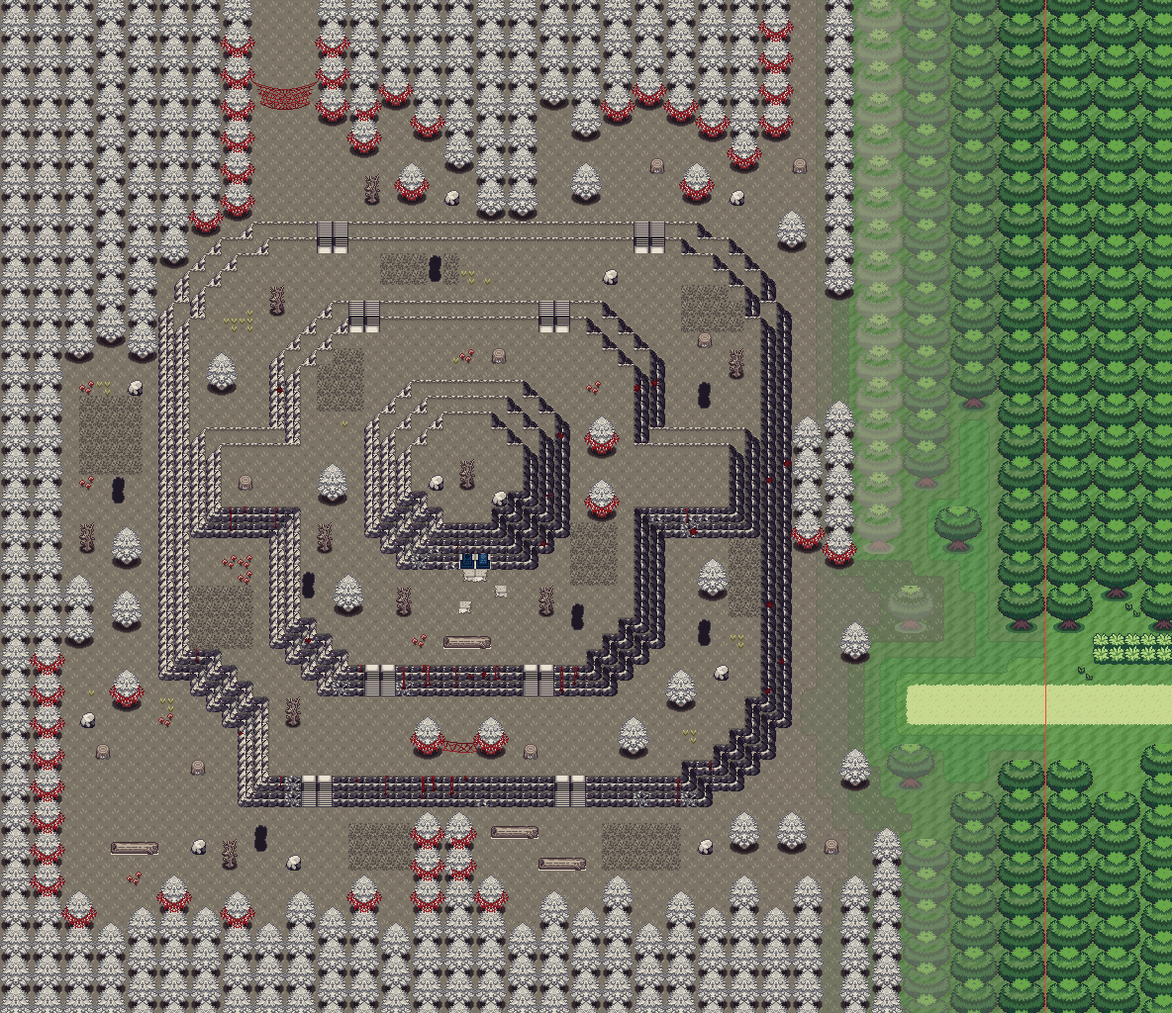
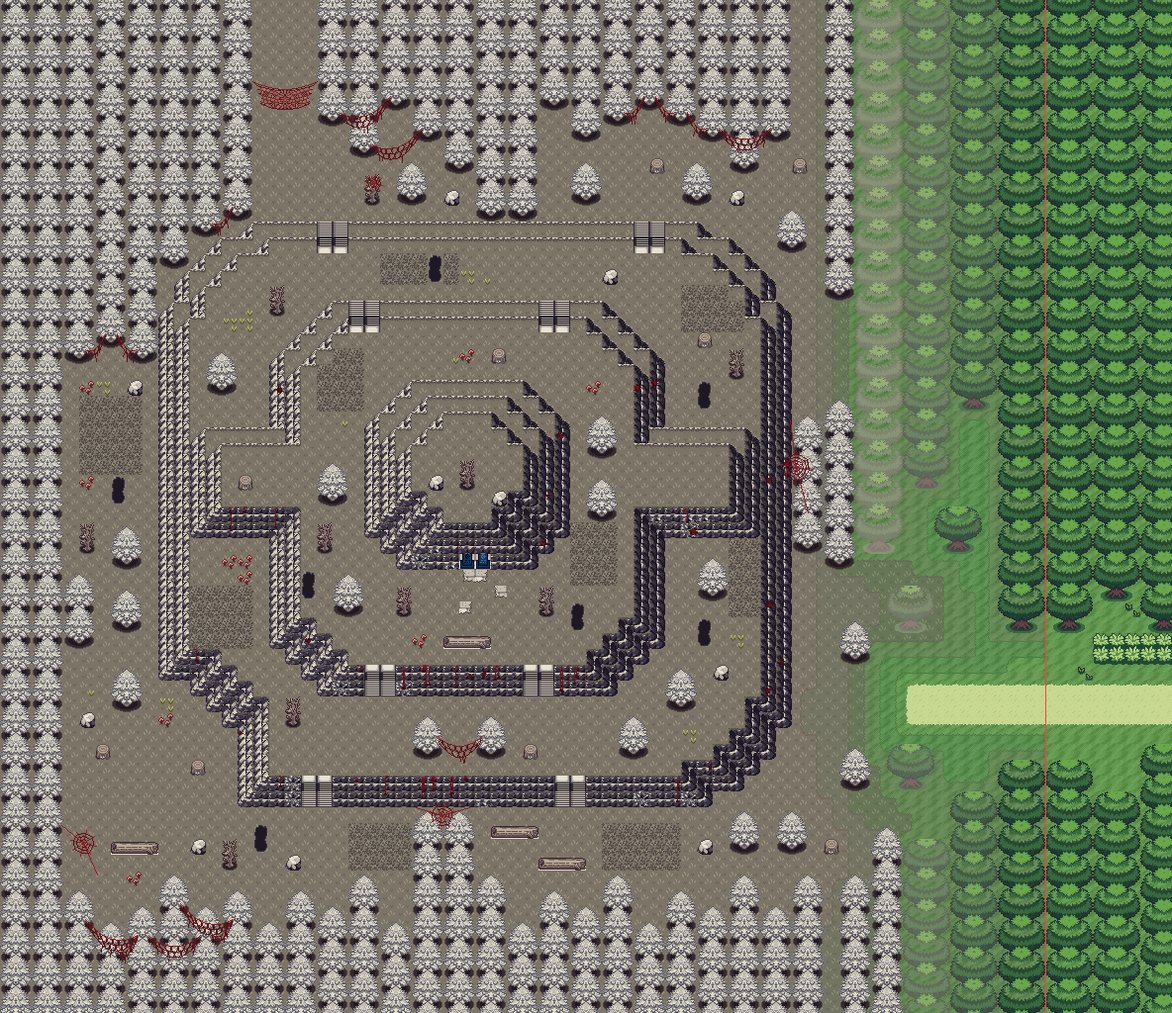
Hollow Hill mock v7: webs hung across the trees, not on each one
Per the user: sheets of web sag from tree to tree along the woods' edges (garlands),
the net across the way north, a sheet between the pair of pines on ring 1, round orb
webs in the dead tree, the clearing's corner and where the woods meet the cliffs.

Claude-Session: https://claude.ai/code/session_01FHXnfqnedTHLf5QFbB3MCU

diff --git a/tools/art/hollowhill/hh_mock.py b/tools/art/hollowhill/hh_mock.py
@@ -581,47 +581,92 @@ def web(name):
     im[im[..., 3] == 0] = 0
     return im
 
-# the webbed patches (cells x0, y0, x1, y1): a pine is webbed when its crown's widest row lies inside one
-WEBBED = [(12, 0, 28, 13),            # round the way north, and the woods' edge above the dead tree (user)
-          (24, 44, 33, 48),           # the pair of pines on ring 1's south terrace (user)
-          (0, 41, 17, 63),            # round the clearing
-          (47, 23, 54, 37),           # the trees closing the way east
-          (23, 50, 31, 63),           # the trees closing the way south
-          (38, 0, 51, 12),            # the north-east woods
-          (34, 23, 41, 33)]           # a clump on ring 2
+# Hung across the trees (user 2026-11-20: a web on each tree looked strange; hang them across more of the trees,
+# more naturally): sheets of web sag from tree to tree along the woods' edges, a few threads deep with MonoMyth's
+# zig-zag lace between them and torn threads trailing from their lower edge; the big net closes the narrow way north;
+# round orb webs, some torn, in the corners where the woods meet the cliffs. Drawn a pixel at a time in the webbing's
+# two colours (MonoMyth's, made old-blood red), so they read as the same webbing.
+WEB_LIGHT, WEB_DARK = (146, 30, 36), (92, 16, 24)
 NETS = [(16, 4, 5)]                   # (gap's first cell x, width, tree row): the big net across the way north
 
-def hang_webs(M, img):
-    out = Image.fromarray(img).convert('RGBA')
-    put = lambda name, px, py: out.alpha_composite(Image.fromarray(web(name)), (int(px), int(py)))
-    def open_(x, y): return 0 <= x < W and 0 <= y < H and (M.used[y, x] in (None, 'road') or str(M.used[y, x]).startswith('soft'))
-    # of the woods, only the trees on their edge (facing open ground: the ones the player sees close by)
-    trees = {(x, y) for x, y in M.units if M.used[y + 1, x] == 'woods' and
-             (any(open_(x + dx, y + dy) for dx in (-1, 2) for dy in (1, 2)) or open_(x, y + 3) or open_(x + 1, y + 3))}
-    alone = {tuple(map(int, u[len('tree:pine'):].split(','))) for u in M.used.ravel()
-             if isinstance(u, str) and u.startswith('tree:pine')}
-    trees |= alone
-    webbed = sorted((x, y) for x, y in trees
-                    if any(a <= x + 1 <= c and b <= y + 1 <= d for a, b, c, d in WEBBED))
-    at = set(webbed)
-    for x, y in webbed:
-        px, py = x * 16, (y + 1) * 16                       # the crown's widest row and the row under it
-        put('webtree_drape', px + 8, py)
-        if (x - 2, y) not in at: put('webtree_fan_l', px - 6, py)
-        if (x + 2, y) in at: put('webtree_fan_r', px + 22, py)       # the fan both trees share
-        else: put('webtree_fan_r', px + 22, py)
-        # a strand across an open gap to the next webbed tree in the row (1-4 cells of open ground)
-        for g in range(1, 5):
-            if (x, y) in alone and (x + 2 + g, y) in alone and (x + 2 + g, y) in at and all(M.used[y + 1, x + 2 + k] in (None, 'road') or str(M.used[y + 1, x + 2 + k]).startswith('soft')
-                                             for k in range(g)):
-                s = web('webtree_strand'); mid = s[:, 16:64]
-                span = g * 16 + 4
-                body = np.concatenate([mid] * 3, 1)[:, :span]
-                put_arr = Image.fromarray(body); out.alpha_composite(put_arr, ((x + 2) * 16 - 2, py))
-                break
+def _line(layer, a, b, c):
+    (x0, y0), (x1, y1) = (int(round(a[0])), int(round(a[1]))), (int(round(b[0])), int(round(b[1])))
+    dx, dy = abs(x1 - x0), -abs(y1 - y0); sx, sy = (1 if x0 < x1 else -1), (1 if y0 < y1 else -1); err = dx + dy
+    while True:
+        if 0 <= y0 < layer.shape[0] and 0 <= x0 < layer.shape[1]: layer[y0, x0] = (*c, 255)
+        if x0 == x1 and y0 == y1: break
+        e2 = 2 * err
+        if e2 >= dy: err += dy; x0 += sx
+        if e2 <= dx: err += dx; y0 += sy
+
+def sheet(layer, A, B, rng, depth=3, sag=None):
+    """Threads sagging from A to B (pixels), one under another, laced by zig-zags; torn ends trailing below."""
+    L = ((B[0] - A[0]) ** 2 + (B[1] - A[1]) ** 2) ** 0.5
+    sag = sag if sag is not None else 3 + L * 0.16
+    n = max(4, int(L / 3))
+    rows = []
+    for i in range(depth):
+        a = (A[0], A[1] + i * 2); b = (B[0], B[1] + i * 2); sg = sag + i * 3.5
+        pts = [(a[0] + (b[0] - a[0]) * t, a[1] + (b[1] - a[1]) * t + sg * 4 * t * (1 - t)) for t in np.linspace(0, 1, n + 1)]
+        rows.append(pts)
+        for p, q in zip(pts, pts[1:]): _line(layer, p, q, WEB_LIGHT if i == 0 else WEB_DARK)
+    for i in range(depth - 1):                                   # the lace: zig-zags between one thread and the next
+        for k in range(1, n):
+            j = k + (1 if (k + i) % 2 else -1)
+            if 0 < j < n: _line(layer, rows[i][k], rows[i + 1][j], WEB_DARK)
+    for k in rng.choice(np.arange(2, n - 1), size=min(3, max(0, n - 3)), replace=False) if n > 4 else []:
+        x, y = rows[-1][k]; _line(layer, (x, y), (x + rng.integers(-1, 2), y + rng.integers(3, 8)), WEB_DARK)
+
+def orb(layer, C, R, anchors, rng, torn=0.25):
+    """A round web: spokes to its anchors and out, a spiral, broken in places."""
+    spokes = [np.arctan2(ay - C[1], ax - C[0]) for ax, ay in anchors] + list(np.linspace(0, 2 * np.pi, 9)[:-1] + 0.2)
+    for ax, ay in anchors: _line(layer, C, (ax, ay), WEB_LIGHT)
+    for t in spokes: _line(layer, C, (C[0] + R * np.cos(t), C[1] + R * np.sin(t)), WEB_LIGHT)
+    ang = sorted(t % (2 * np.pi) for t in spokes)
+    for r in np.arange(4, R, 3.2):
+        for t0, t1 in zip(ang, ang[1:] + [ang[0] + 2 * np.pi]):
+            if rng.random() < torn: continue
+            _line(layer, (C[0] + r * np.cos(t0), C[1] + r * np.sin(t0)), (C[0] + r * np.cos(t1), C[1] + r * np.sin(t1)), WEB_DARK)
+
+def hang_webs(M, img, seed=4):
+    rng = np.random.default_rng(seed)
+    layer = np.zeros(img.shape[:2] + (4,), np.uint8)
+    units = set(M.units)
+    def north(x0):                        # the lowest pine of a woods column hanging from the top
+        return max(t for x, t in units if x == x0 and t < 30)
+    def south(x0):                        # the highest pine of a column rising from the bottom
+        return min(t for x, t in units if x == x0 and t > 40)
+    def front(u):                         # where a web holds on: the front of a pine's crown, low down
+        x0, t = u; return (x0 * 16 + 16, (t + 2) * 16 + 1)
+    def garland(us):
+        """Along a woods' edge: each tree's crown to the next one's (up to two along) if they hang at about the
+        same height, the web sagging between; never one steeply above the other."""
+        pts = [front(u) for u in us]
+        for i, A in enumerate(pts):
+            for B in pts[i + 1:i + 3]:
+                if abs(B[1] - A[1]) <= 18 or (abs(B[1] - A[1]) <= 34 and B[0] - A[0] >= 60):
+                    sheet(layer, (A[0] + 6, A[1]), (B[0] - 6, B[1]), rng, depth=2 + (B[0] - A[0] > 40)); break
+    garland([(x, north(x)) for x in (4, 6, 8, 10, 12, 14)])               # the woods' edge west of the way north
+    garland([(x, north(x)) for x in (20, 22, 24, 26, 28)])                # and east of it, over the dead tree (user)
+    garland([(x, north(x)) for x in (38, 40, 42, 44, 46, 48)])            # the north-east woods
+    garland([(x, south(x)) for x in (4, 6, 8, 10, 12, 14)])               # the treeline south of the clearing
+    # a small round web in the dead tree's branches under the woods' edge (user)
+    orb(layer, (23 * 16 + 9, 11 * 16 + 9), 9, [(23 * 16 + 3, 11 * 16 + 2), (23 * 16 + 14, 11 * 16 + 4)], rng, torn=0.3)
+    # the clearing's corner, where the west woods meet the treeline south of it
+    orb(layer, (5 * 16 + 4, 53 * 16 + 4), 13, [(3 * 16 + 14, 52 * 16 + 2), (6 * 16 + 2, 55 * 16 + 4)], rng)
+    # the pair of pines on ring 1's south terrace (user): a deep sheet between them
+    sheet(layer, (26 * 16 + 26, 46 * 16 + 8), (30 * 16 + 6, 46 * 16 + 8), rng, depth=3)
+    # round webs where the woods close the ways against the cliffs: east and south
+    orb(layer, (50 * 16 + 4, 29 * 16 + 8), 16, [(50 * 16 - 2, 26 * 16 + 8), (51 * 16, 32 * 16 + 6)], rng)
+    orb(layer, (27 * 16 + 14, 51 * 16 + 8), 13, [(26 * 16 + 4, 51 * 16), (29 * 16 + 10, 51 * 16)], rng)
+    # a clump on ring 2: two pines and the stump between them
+    out = Image.fromarray(img).convert('RGBA'); out.alpha_composite(Image.fromarray(layer))
     for gx, w, row in NETS:
-        net = web('web_net')
-        out.alpha_composite(Image.fromarray(net), (gx * 16 + (w * 16 - net.shape[1]) // 2, row * 16 + 2))
+        net = Image.open(os.path.join(HERE, '..', '..', '..', 'assets', 'monomyth_reference', 'pieces', 'web_net.png')).convert('RGBA')
+        a = np.array(net); m = a[..., 3] > 0
+        light = (a[..., :3] == (240, 240, 248)).all(-1)
+        a[m & light, :3] = WEB_LIGHT; a[m & ~light, :3] = WEB_DARK
+        out.alpha_composite(Image.fromarray(a), (gx * 16 + (w * 16 - a.shape[1]) // 2, row * 16 + 2))
     return np.array(out.convert('RGB'))
 
 def main(outdir):

diff --git a/bible/20_chapter1_build.md b/bible/20_chapter1_build.md
@@ -180,7 +180,7 @@ Chapter 1 is the template: once its foundations (mechanics, maps, buildings, NPC
 - **Pelluca's five houses (user design 2026-11-19), installed (stage 1: the look).** The five "door is locked" houses open: `PellucaHouse1`-`5` behind (59,8), (54,23), (64,23), (54,30), (64,30) (Pelluca warps 5-9; the manor takes 10 when it opens). Crown's medieval cottage kit (group 4 #1; credit: Blah and the Crown team, with permission): stone walls with small windows, plank floor, beds, wardrobes, bookcases, tables and chairs, candelabras, coat stands, barrels (user: Crown cottages with MonoMyth pieces where they make sense). **H1** (the two-winged timber townhouse, larger, 19x11): bookcases and MonoMyth's tree-stump lodge table with its stools (user), Crown's upright organ on its rug (from the manor set), wardrobe, bed, table. **H2:** an iron cauldron against the back wall (Crown's alchemist's room, group 18 #1), bed, wardrobe, bookcase, table. **H3:** two beds, the table in the middle, barrels by the door. **H4:** bookcases, the alchemist's cluttered desk and potion shelf, bed, table. **H5:** the smallest: wardrobe, table, bed, barrels, coat stand. User: no hearths (each replaced by something no other house has), no round rugs, no single chairs standing mid-floor. One shared tileset pair (`pelluca_houses_tiles` / `pelluca_houses`, 208 tiles, 63 metatiles, 9 palettes, pixel-identical to the mocks), built by `tools/art/houses/` (`houses_mock.py`, `build_houses.py`). Verified in the emulator: into each house from its door, around it, out by the mat. *Stage 2:* who lives in each, NPCs, dialogue.
 - **The ice path and the church after the blast (user design 2026-11-19), built (stage 1 + the stage-3 puzzle, user: the two combined for this piece).** **The church after Eden's blast** is a second layout of the same hall map (`LAYOUT_PELLUCA_TEMPLAR_HALL_RUINED`), swapped in by the hall's on-transition script once **`FLAG_DR_CHURCH_BLASTED`** is set (the blast scene, stage 4): the split through the gold medallion with frost round it, the old fault's cracks in wall and carpet, the cracked stained glass (three in the great window, one across the girl's face; two in each lancet) and the cell doorway caved in under MonoMyth's Mt. Thunder rubble (`blast_mock.py`, approved); no long crack from the rubble to the split (tried, dropped, user: unnatural and not needed). Everything else plays as the intact hall: its collision, its exit, and its side tables' tops over the player, read from the intact layout. The four split cells drop the player (Mt. Pyre's fall-through-the-hole) onto the ice path's landing; the cell door is dead and the fallen stone in front of it solid. **The ice path** (`PellucaIcePath`, 16x24, `icepath_mock.py`, approved): the landing, the 12x9 thin-ice field (86 ice cells, 22 ice boulders, a unique route from the landing to the gate), the ice wall and its gate, and the shrine: the half-thawed Arceus statue between the fossilised log benches, fire rings and blue flowers, and the three stone tusk arches like a ribcage before it. **The puzzle** runs on vanilla's Sootopolis-gym step callback (`STEP_CB_SOOTOPOLIS_ICE`, `VAR_ICE_STEP_COUNT`), which `src/field_tasks.c` now points at this map's own cracked/broken metatiles on this layout (`METATILE_PellucaIcePath_*`, written by the build into `metatile_labels.h`; the Sootopolis row-var bookkeeping kept to the gym). All 86 cracked (count 87): the gate's ice gives way (`SE_ICE_STAIRS`), the field refreezes solid (special `DrIcePathFreeze`: safe ice, no behaviour) and **`FLAG_DR_ICE_PATH_SOLVED`** is set; a second step on a cracked cell: the ice breaks, the player drops through, black screen, back on the landing with a fresh field. Every full load of the map rebuilds a fresh field and count when unsolved (special `DrIcePathReset`; a continued save would otherwise restore cracked cells in view), and the solved state (gate open, refrozen field) when solved. **Ways out:** the ladder in the shrine's corner, and (added in the build, so the player is never stuck before solving) **the Templars' rope** hanging beside the landing; both bring the player up just south of the split (hall warp 2). The ribs stand free: only each leg's foot is solid, the rest of each rib is drawn over the player, so he walks under and between them. Map type underground. Flags: `FLAG_DR_CHURCH_BLASTED` = 0x901, `FLAG_DR_ICE_PATH_SOLVED` = 0x902. Built by `tools/art/icepath/build_icepath.py` and `tools/art/templar/build_ruined.py` (with `imgtiles.py`; `tools/art/academy/tilefit.py` merges the statue's rarest near-shades so each 8x8 tile fits one palette, no visible change); `CHURCH_TEST_BLASTED=1` builds a test ROM that sets the flag on entering the hall. **Verified in the emulator** (test build): city -> ruined hall -> the cell door blocked -> into the split -> the landing; a second step on a cracked cell -> reset to the landing; the rope up and back down; the solution walked -> gate open, field refrozen -> the shrine -> the ladder up -> back down the split: still solved, the field crossed back and forth without falling. Normal build: the intact hall unchanged (city -> hall -> cell -> hall -> city; the split cells inert). *Stage 3-4, still to do:* the blast scene that sets the flag, the Templar's remark on the cold, the Sparkling Opal and the discovery, the Archbishop's scene, the leave-the-Valley block, dialogue for the fall (the field's black-out is silent for now).
 - **The shrine's awakening and the Sparkling Opal (user design 2026-11-20), built.** With the field solved, **pressing A on the Arceus statue** awakens the holy power of the site: dramatic music starts at the touch (**Rayquaza Appears**, `MUS_RAYQUAZA_APPEARS`; user: something awe-inspiring), a rumble, **the ice melts off the statue** (five frames, a little meltwater left at its foot), **the seal breaks in a holy flash** (fade to white and back) with **Arceus's cry echoing** (the cry's chorus mode under a heavy mixer reverb: specials `DrPlayEchoCry` / `DrEndEchoCry`), **the two fire rings beside the logs light** one after the other in **holy sapphire-and-white flame** (user's pick over warm firelight; animated, four frames on dedicated tiles: `InitTilesetAnim_PellucaIcePath`), and the music ends. Then Osrid (portrait, his private nameplate): "Something fell down out of the ice... Could this be...!!", and **"Osrid found the Sparkling Opal!"** with the key-item fanfare and its description popup. The statue stays thawed and the fires lit (`FLAG_DR_STATUE_AWAKENED` = 0x909, restored on every load). **Sparkling Opal** (`ITEM_SPARKLING_OPAL`, key item): its bag icon drawn in `awaken_mock.py` (a milky opal with a rainbow patchwork of play of colour, user); bag text (three lines fit): "Fell from the ice of / an Arceus statue. It / shimmers as if alive." (the user's description, "A gleaming opal that fell from the ice around an ancient Arceus statue. Its colours shift as if alive.", is too long for the bag window; it can be the text when the item is first shown or examined). **What happens to it (user 2026-11-20, canon):** when the player goes back up and shows it to **Archbishop Ambrose**, he gives them the **Warding Ring** with massive enthusiasm (a key item that, worn, keeps wild Pokémon away: a Repel switched on and off at will): Sparkling Opals appear only where Arceus has set foot in the material realm, the Templars have sought one for centuries, and this is the first physical proof of Arceus found in centuries as far as he knows. The player also gets the bravery reward (Never-Melt Ice / Metal Coat / Soft Sand). Stage 4: the scene; the Ring's mechanic to be built with it. **Ice path music (user):** the cave plays **MonoMyth's Old Headquarters theme** (Old Town's Old HQ, where the gang leader with the Bug Pokémon is fought): MonoMyth song 677 ported note for note by `tools/monomyth/port_song.py` (tracks, the voices it uses, its two samples; credit MonoMyth) as `MUS_DR_OLD_HQ` (song 631). **Church crack** (user): the long fresh crack from the cell rubble to the split is gone. Built by `build_icepath.py` with `awaken_mock.py` (melt frames, flames, icon); the statue's cells across all the melt frames share 26 colours (`tilefit.reduce_joint`) so the room still fits 13 palettes. **Verified in the emulator** (test build): the cave plays the Old HQ theme; A on the statue plays the whole sequence (music switches to Rayquaza Appears and back, the melt, the flash, both fires, the line, the item into Key Items); leaving and coming back: statue thawed, fires lit and flickering (four distinct frames).
-- **Route 11 and Hollow Hill: layouts approved (user 2026-11-20).** **Route 11** (45x30, west from Pelluca's west road): Pelluca's pines and cobble road carry on at the east end (the seam to Pelluca uses Pelluca's own Cormoria tiles), farmland in the middle (a thatched farmhouse with a fenced yard, cabbage rows, a sown field, hay; fenced flower rows and tall grass south of the road), tan cliffs stepping down along the north, a cliff-flanked little cove on the south coast, and at the west end the road becomes a dirt track into cooler dark woods running on into Hollow Hill (the Eiscue scene on that track). Art: Crown's seaside farm village (3.1) and dark woods (3.25), Odyssey's farm (0.232); Pisces' Brumist Cliffs / Zotpyre Village (snowy in the ROM) and Odyssey's terraced hill as layout ideas. **Hollow Hill** (about 50x50; **its theme (approved by the user 2026-11-20, "perfect"):** Ghost Grey's Route 1 theme re-arranged as `MUS_DR_HOLLOW_HILL` by `tools/music/arrange_hollow_hill.py`: slowed from 124 to 64 bpm, on the soft pedal piano, no percussion, with a ghostly far-off voice echoing the tune (a sine tone first, heard as beeps: replaced) (wind was tried and taken out: it came across as static) in the bars where the song falls quiet; credit Ghost Grey): woods rising in three rings, each a cliff step up, to a central rock knoll; the path in from Route 11 climbs the rings by stairs to **the sealed tunnel door** at the knoll's foot; the north exit to Mirroh leaves from the outer ring (Glaive there); the Eiscue and the 1v2 on the outer ring; **very foggy, with a generally spooky, unsettling feeling** (user 2026-11-20). **The summit is late-game** (unlocked only with Valkeerin/Keerin in the party; the trip to the distant future and the Red fight happen there; 19_location_atlas.md). **Hollow Hill will be revisited and added to over the whole game** (many secrets, met in pieces): its layout and its tileset keep room for more (hidden burrow mouths placed now as scenery that can later open, the summit area behind the sealed door, spare palette and tile room in its tileset). **Revision (user 2026-11-20, after the first mock):** Route 11 is **about twice as long (about 90x30)**; the **Ivy River's thin western branch** (as on the illustrated region map, coming down from the north past the Necropolis just west of Pelluca) **crosses Route 11 near its Pelluca end and runs down to the beach and the sea; the road crosses it on a bridge**; the **grass shifts gradually** from Pelluca's light mint to the darker temperate greens of Hollow Hill's woods (shades reaching into each other in patches, as MonoMyth's and Crown's route boundaries do; tree kinds mixing before they change). Design rule: no tree or object ever cut, stacked into another or bleeding into buildings, cliffs or water (docs/chapter1_workflow.md). **Mock v2 (2026-11-20):** the river drops through a chasm in three falls (the middle one under the bridge), over the coastal cliff into a rock pool, and a stream bends west over the sand to the sea; the beach is a cove between cliff walls, split by the stream. **Steps down to the west beach (user 2026-11-20)** are cut into the coastal cliff just west of the bridge (stone stairs, two wide: Pelluca's own stair tiles, as in its sea wall): the beach holds **at least one trainer**, and more may go there later. The east beach (between the stream and Pelluca's pines) has no way down yet: **revisit later (user 2026-11-20).** **Built (2026-11-20):** `MAP_ROUTE11` (layout 90x40: five rows of woods, the chasm and the sea added above and below the approved picture, out of the player's reach, so the camera never shows past the edge), connected to Pelluca's west road (Route 11's road rows 19-21 = Pelluca's 28-30). Its own secondary tileset (`gTileset_Route11`, 7 palettes: grass, broadleaf woods, farm, cottage and hay, bridge, cliffs, river and pines on sage) under Pelluca's primary; Pelluca's own metatiles wherever a cell is one. Crowns of trees are walked behind; tall grass is tall grass (no encounter table yet: stage 5); the river in the chasm is solid, the stream and the sea need Surf. **Story gate (provisional):** stepping onto Pelluca's west edge is stopped with Osrid's line ("Cadmus told me to meet him at the church..." after the blast, a general line before it) until the shrine is awakened; stage 4 sets the real condition. **Music (user 2026-11-20):** MonoMyth's Route 15 theme (`MUS_DR_MM_ROUTE15`): a classic Pokémon route theme, reworked, a bright contrast before spooky Hollow Hill. Credit: MonoMyth (its music). **Pelluca Valley's main theme (user 2026-11-20):** Pokémon Crown's route theme (its song 292, `MUS_DR_CROWN_PELLUCA`), replacing Lilycove's, **in the piano version the user chose** (`MUS_DR_CROWN_PELLUCA_PIANO`: our pedal piano for its guitar, harp, clarinet and flute, standalone; the original as ported was removed, user: the remix is better). Credit: Pokémon Crown (its music). **Cold-open music (user 2026-11-20):** MonoMyth's "A Legend Unfolds" (`MUS_DR_LEGEND_UNFOLDS`; in MonoMyth it plays when Fabrizia's museum in North Edelweiss tells the legend of Athanto's Pokémon) plays from Tenebris's notes through Cadmus's letter until Osrid docks in Pelluca, replacing "Far Horizons". Credit: MonoMyth (its music). **Loops checked in the game (2026-11-20):** Pelluca's theme, Route 11's, the cold open's and Hollow Hill's each play through their loop point and come back in step with their loop start (every track loops at the same point). **Sound engine (2026-11-20):** 12 sampled voices instead of 5, as MonoMyth uses (the songs from MonoMyth and Crown play up to 10-12 notes at once; with 5 they cut each other off). **Hollow Hill mock v3 (user 2026-11-20: "quite good"):** `tools/art/hollowhill/hh_mock.py`, renders in `assets/hollowhill_reference/`. Art: Pokémon Odyssey's haunted forest (its maps 0.94/0.95/0.97: teal floor, dark pines, dead trees, stumps, logs, red mushrooms, dark tall grass, burrow hollows, grey stone terraces and stairs, the sealed blue door); credit Odyssey. Layout 66x64 (the hill about 40x37; the extra width is the east edge, where Route 11's olive ground and Crown woods darken and mix into the teal and the pines over about ten columns; Route 11's row = Hollow Hill's row - 24, its track on rows 43-45). Ring edges drawn by Odyssey's own terrace grammar, two bands per ring, three for the knoll. **The way through (user 2026-11-20):** the woods floor is closed into sections by trees running up to the cliffs (north-west corner, north, east, south), and ring 2 reaches out west and east to ring 1's edge, cutting ring 1 into a north and a south half, so **the player can never go round the hill: from Route 11 up ring 1, up ring 2 (the sealed door, or over), down the north side to the north woods and the exit to Mirroh.** Eight stairs, four per ring (south faces, and north edges with the steps drawn down-facing) link the sections: the clearing (Eiscue, the 1v2) is its own section with its own stairs; the north-east woods are a dead-end pocket (room for an item or a secret). The mock checks this each run: with ring 2's stairs closed the north is out of reach; with ring 1's closed the woods sections do not join. The void pits with red eyes were dropped (they read as ponds). **Later (user 2026-11-20):** Hollow Hill keeps being worked on through the game, e.g. **a cool ruined structure on the top**, since it truly is an ancient and arguably cursed place. **Colours (user 2026-11-20):** the woods and their floor an **off-white, creepy bone** (Odyssey's pines, floor and tall grass recoloured one for one), the cliffs a **sinister stone, dark and light mixed** (near-black violet shade, charcoal faces, bone-pale lit edges), so Hollow Hill stands out even in the fog; trunks, red mushrooms and the sealed door's cold blue kept. At the east edge Route 11's green woods pale toward bone over three columns of trees (`hh_mock.py` BONE, tint). **Unsettling throughout (user 2026-11-20):** the pines' bone shades go to a **sinister grey** in their depths; **blood-like stains** run down the cliffs from their tops and soak into the stone in blots (more round the sealed door); **MonoMyth's Webbed Woods webbing, recoloured blood red, hung as MonoMyth hangs it** (user 2026-11-20: study the Webbed Woods): the webbing lives in the trees, a fan at each side of a webbed tree's crown and a drape sagging under it, neighbouring trees sharing the fan in the V between them, a zig-zag strand across an open gap from one webbed tree to the next, a big sagging net only across a narrow path between two webbed trees; in patches, on the trees at the woods' edges (round the way north with the net across it, the woods' edge over the dead tree, the pair of pines on ring 1's south terrace with a strand between them, round the clearing, the trees closing the ways east and south, the north-east woods, a clump on ring 2). Layers cut from MonoMyth's webbed trees (its map 0x886DD40), `assets/monomyth_reference/pieces/webtree_*.png`; the net `web_net.png` (0x886DD5C). Credit MonoMyth.
+- **Route 11 and Hollow Hill: layouts approved (user 2026-11-20).** **Route 11** (45x30, west from Pelluca's west road): Pelluca's pines and cobble road carry on at the east end (the seam to Pelluca uses Pelluca's own Cormoria tiles), farmland in the middle (a thatched farmhouse with a fenced yard, cabbage rows, a sown field, hay; fenced flower rows and tall grass south of the road), tan cliffs stepping down along the north, a cliff-flanked little cove on the south coast, and at the west end the road becomes a dirt track into cooler dark woods running on into Hollow Hill (the Eiscue scene on that track). Art: Crown's seaside farm village (3.1) and dark woods (3.25), Odyssey's farm (0.232); Pisces' Brumist Cliffs / Zotpyre Village (snowy in the ROM) and Odyssey's terraced hill as layout ideas. **Hollow Hill** (about 50x50; **its theme (approved by the user 2026-11-20, "perfect"):** Ghost Grey's Route 1 theme re-arranged as `MUS_DR_HOLLOW_HILL` by `tools/music/arrange_hollow_hill.py`: slowed from 124 to 64 bpm, on the soft pedal piano, no percussion, with a ghostly far-off voice echoing the tune (a sine tone first, heard as beeps: replaced) (wind was tried and taken out: it came across as static) in the bars where the song falls quiet; credit Ghost Grey): woods rising in three rings, each a cliff step up, to a central rock knoll; the path in from Route 11 climbs the rings by stairs to **the sealed tunnel door** at the knoll's foot; the north exit to Mirroh leaves from the outer ring (Glaive there); the Eiscue and the 1v2 on the outer ring; **very foggy, with a generally spooky, unsettling feeling** (user 2026-11-20). **The summit is late-game** (unlocked only with Valkeerin/Keerin in the party; the trip to the distant future and the Red fight happen there; 19_location_atlas.md). **Hollow Hill will be revisited and added to over the whole game** (many secrets, met in pieces): its layout and its tileset keep room for more (hidden burrow mouths placed now as scenery that can later open, the summit area behind the sealed door, spare palette and tile room in its tileset). **Revision (user 2026-11-20, after the first mock):** Route 11 is **about twice as long (about 90x30)**; the **Ivy River's thin western branch** (as on the illustrated region map, coming down from the north past the Necropolis just west of Pelluca) **crosses Route 11 near its Pelluca end and runs down to the beach and the sea; the road crosses it on a bridge**; the **grass shifts gradually** from Pelluca's light mint to the darker temperate greens of Hollow Hill's woods (shades reaching into each other in patches, as MonoMyth's and Crown's route boundaries do; tree kinds mixing before they change). Design rule: no tree or object ever cut, stacked into another or bleeding into buildings, cliffs or water (docs/chapter1_workflow.md). **Mock v2 (2026-11-20):** the river drops through a chasm in three falls (the middle one under the bridge), over the coastal cliff into a rock pool, and a stream bends west over the sand to the sea; the beach is a cove between cliff walls, split by the stream. **Steps down to the west beach (user 2026-11-20)** are cut into the coastal cliff just west of the bridge (stone stairs, two wide: Pelluca's own stair tiles, as in its sea wall): the beach holds **at least one trainer**, and more may go there later. The east beach (between the stream and Pelluca's pines) has no way down yet: **revisit later (user 2026-11-20).** **Built (2026-11-20):** `MAP_ROUTE11` (layout 90x40: five rows of woods, the chasm and the sea added above and below the approved picture, out of the player's reach, so the camera never shows past the edge), connected to Pelluca's west road (Route 11's road rows 19-21 = Pelluca's 28-30). Its own secondary tileset (`gTileset_Route11`, 7 palettes: grass, broadleaf woods, farm, cottage and hay, bridge, cliffs, river and pines on sage) under Pelluca's primary; Pelluca's own metatiles wherever a cell is one. Crowns of trees are walked behind; tall grass is tall grass (no encounter table yet: stage 5); the river in the chasm is solid, the stream and the sea need Surf. **Story gate (provisional):** stepping onto Pelluca's west edge is stopped with Osrid's line ("Cadmus told me to meet him at the church..." after the blast, a general line before it) until the shrine is awakened; stage 4 sets the real condition. **Music (user 2026-11-20):** MonoMyth's Route 15 theme (`MUS_DR_MM_ROUTE15`): a classic Pokémon route theme, reworked, a bright contrast before spooky Hollow Hill. Credit: MonoMyth (its music). **Pelluca Valley's main theme (user 2026-11-20):** Pokémon Crown's route theme (its song 292, `MUS_DR_CROWN_PELLUCA`), replacing Lilycove's, **in the piano version the user chose** (`MUS_DR_CROWN_PELLUCA_PIANO`: our pedal piano for its guitar, harp, clarinet and flute, standalone; the original as ported was removed, user: the remix is better). Credit: Pokémon Crown (its music). **Cold-open music (user 2026-11-20):** MonoMyth's "A Legend Unfolds" (`MUS_DR_LEGEND_UNFOLDS`; in MonoMyth it plays when Fabrizia's museum in North Edelweiss tells the legend of Athanto's Pokémon) plays from Tenebris's notes through Cadmus's letter until Osrid docks in Pelluca, replacing "Far Horizons". Credit: MonoMyth (its music). **Loops checked in the game (2026-11-20):** Pelluca's theme, Route 11's, the cold open's and Hollow Hill's each play through their loop point and come back in step with their loop start (every track loops at the same point). **Sound engine (2026-11-20):** 12 sampled voices instead of 5, as MonoMyth uses (the songs from MonoMyth and Crown play up to 10-12 notes at once; with 5 they cut each other off). **Hollow Hill mock v3 (user 2026-11-20: "quite good"):** `tools/art/hollowhill/hh_mock.py`, renders in `assets/hollowhill_reference/`. Art: Pokémon Odyssey's haunted forest (its maps 0.94/0.95/0.97: teal floor, dark pines, dead trees, stumps, logs, red mushrooms, dark tall grass, burrow hollows, grey stone terraces and stairs, the sealed blue door); credit Odyssey. Layout 66x64 (the hill about 40x37; the extra width is the east edge, where Route 11's olive ground and Crown woods darken and mix into the teal and the pines over about ten columns; Route 11's row = Hollow Hill's row - 24, its track on rows 43-45). Ring edges drawn by Odyssey's own terrace grammar, two bands per ring, three for the knoll. **The way through (user 2026-11-20):** the woods floor is closed into sections by trees running up to the cliffs (north-west corner, north, east, south), and ring 2 reaches out west and east to ring 1's edge, cutting ring 1 into a north and a south half, so **the player can never go round the hill: from Route 11 up ring 1, up ring 2 (the sealed door, or over), down the north side to the north woods and the exit to Mirroh.** Eight stairs, four per ring (south faces, and north edges with the steps drawn down-facing) link the sections: the clearing (Eiscue, the 1v2) is its own section with its own stairs; the north-east woods are a dead-end pocket (room for an item or a secret). The mock checks this each run: with ring 2's stairs closed the north is out of reach; with ring 1's closed the woods sections do not join. The void pits with red eyes were dropped (they read as ponds). **Later (user 2026-11-20):** Hollow Hill keeps being worked on through the game, e.g. **a cool ruined structure on the top**, since it truly is an ancient and arguably cursed place. **Colours (user 2026-11-20):** the woods and their floor an **off-white, creepy bone** (Odyssey's pines, floor and tall grass recoloured one for one), the cliffs a **sinister stone, dark and light mixed** (near-black violet shade, charcoal faces, bone-pale lit edges), so Hollow Hill stands out even in the fog; trunks, red mushrooms and the sealed door's cold blue kept. At the east edge Route 11's green woods pale toward bone over three columns of trees (`hh_mock.py` BONE, tint). **Unsettling throughout (user 2026-11-20):** the pines' bone shades go to a **sinister grey** in their depths; **blood-like stains** run down the cliffs from their tops and soak into the stone in blots (more round the sealed door); **Blood-red webbing in MonoMyth's Webbed Woods style, hung across the trees** (user 2026-11-20: a web on each tree looked strange; hang them across more of the trees, more naturally): sheets of web sag from tree to tree along the woods' edges (garlands: each crown to the next at about the same height, two or three threads deep, laced by MonoMyth's zig-zags, torn threads trailing), MonoMyth's big sagging net across the narrow way north, a deep sheet between the pair of pines on ring 1, round orb webs (some torn) in the dead tree's branches under the woods' edge, in the clearing's corner and where the woods close the ways against the cliffs (east, south). Drawn a pixel at a time in the webbing's two colours (MonoMyth's, made old-blood red); the net is MonoMyth's (`web_net.png`, 0x886DD5C). Credit MonoMyth.
 - **Chapter 1 asset references (user 2026-11-19), for later: nothing built yet.** **Permissions and credits (user 2026-11-19):** Pokémon Crown (Blah and the Crown team) and Pokémon Ghost Grey Version EX (JoeyZeed) are used with permission; credit them in the notes alongside MonoMyth, Pokémon Odyssey and the Pokémon Rejuvenation team. Sources earmarked while surveying Pokémon Crown (FireRed hack by Blah and the Crown team; `tools/crown/README.md`, renders in `assets/crown_reference/`), MonoMyth, Dreamstone Mysteries and Rejuvenation:
   - **Mirroh Necropolis entrance:** Crown's curved palisade gate (walled capital, map group 3 #3, cells x43-54 y5-13), recoloured sinister (slate stone, charred wood, tarnished bronze arch, spectral banners) with graveyard/gothic ornament, as the grand entrance down into the catacombs (user). Catacomb levels: Crown's underground stone halls (group 6 #8: tiered walls, cobwebs, pillars, plank bridges over a chasm, a sealed chamber) and its sewer (group 7 #11), recoloured. Graves: DM's Mirroh Base Camp Graveyard headstones (metatile 0x3A5 in LAYOUT_MIRROH_BASE_CAMP_GRAVEYARD) and MonoMyth Speedwell's wooden cross markers (metatiles 0x39, 0xA6); dead stumps from MonoMyth's Haunted Swamp; Crown's cobwebs; Rejuvenation's iron candle stands with ghost-coloured flames; Crown's dragon statues darkened into gargoyles. **Underground catacombs (user, primary reference):** Pokémon Ghost Grey Version EX's Lavender Town catacombs (by JoeyZeed; `tools/ghostgrey/README.md`, renders in `assets/ghostgrey_reference/`): six chambers with grave niches, demon-face reliefs and chasm crossings, ending in a pillared chamber with a sealed gate (the Distortion gate's room). They are greyscale and need a proper palette.
   - **Templar Headquarters ("Templar Citadel", Mt. Mirroh):** Crown's gothic cathedral on its moat island with timber chalets (group 3 #2), with an alpine/snow treatment and perhaps an outer wall.
